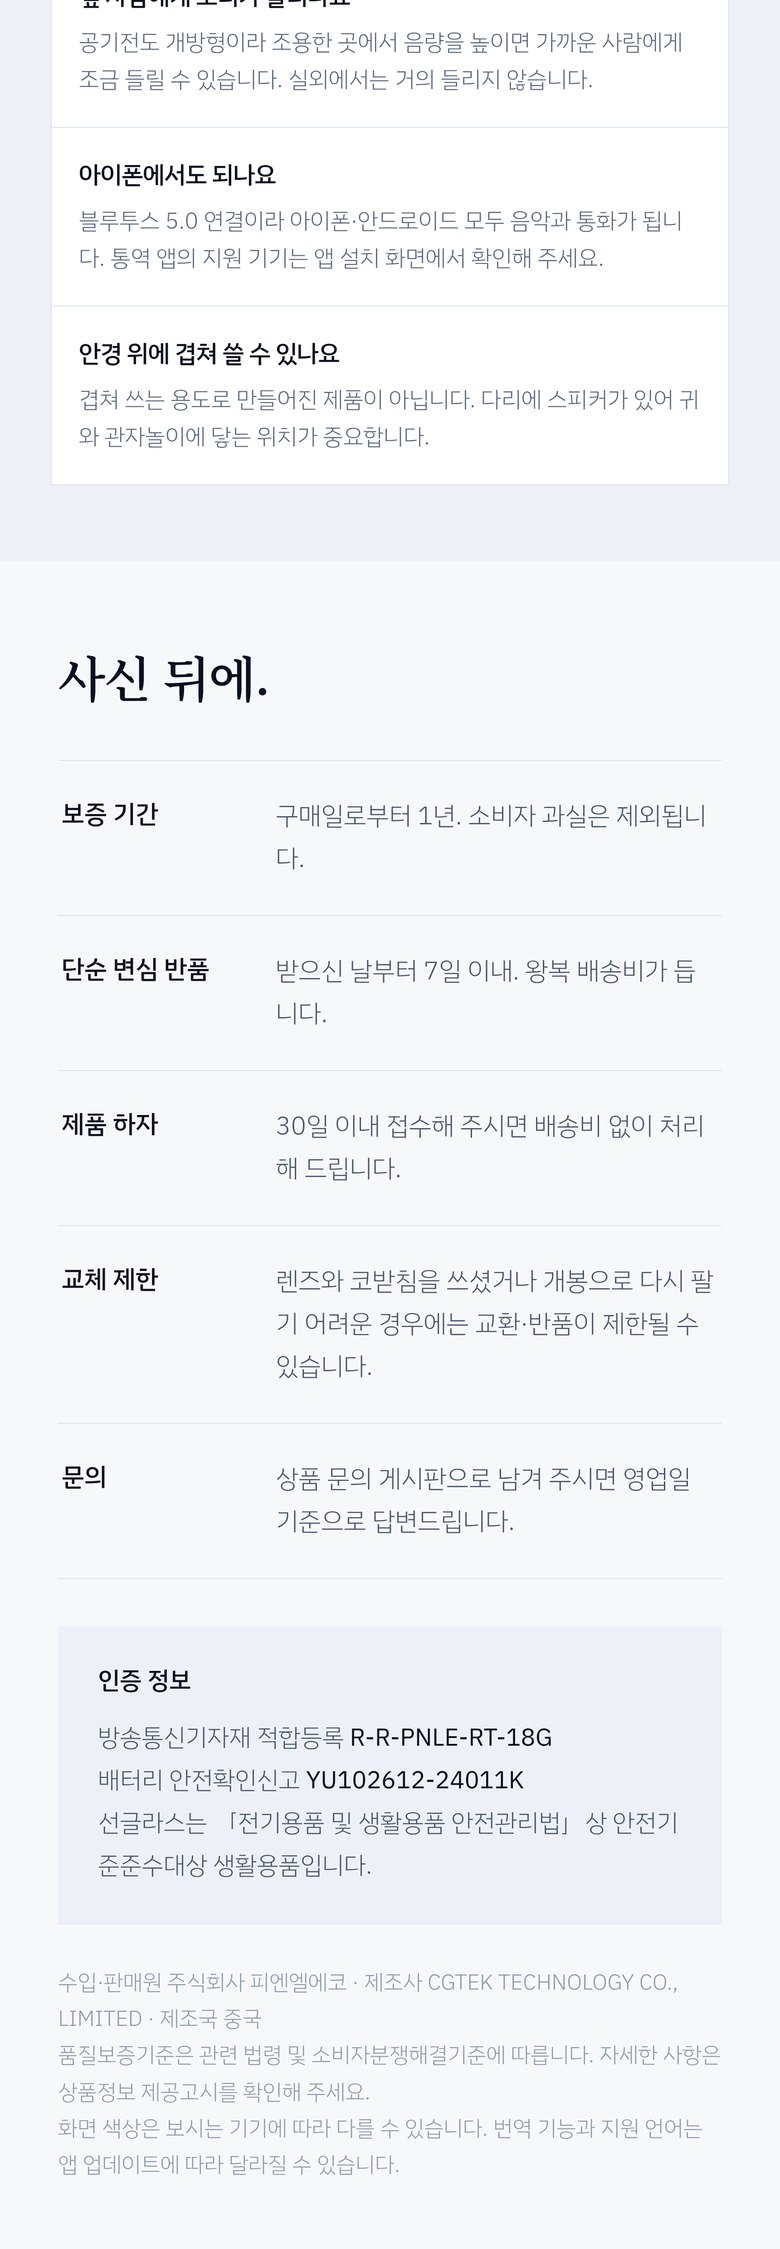
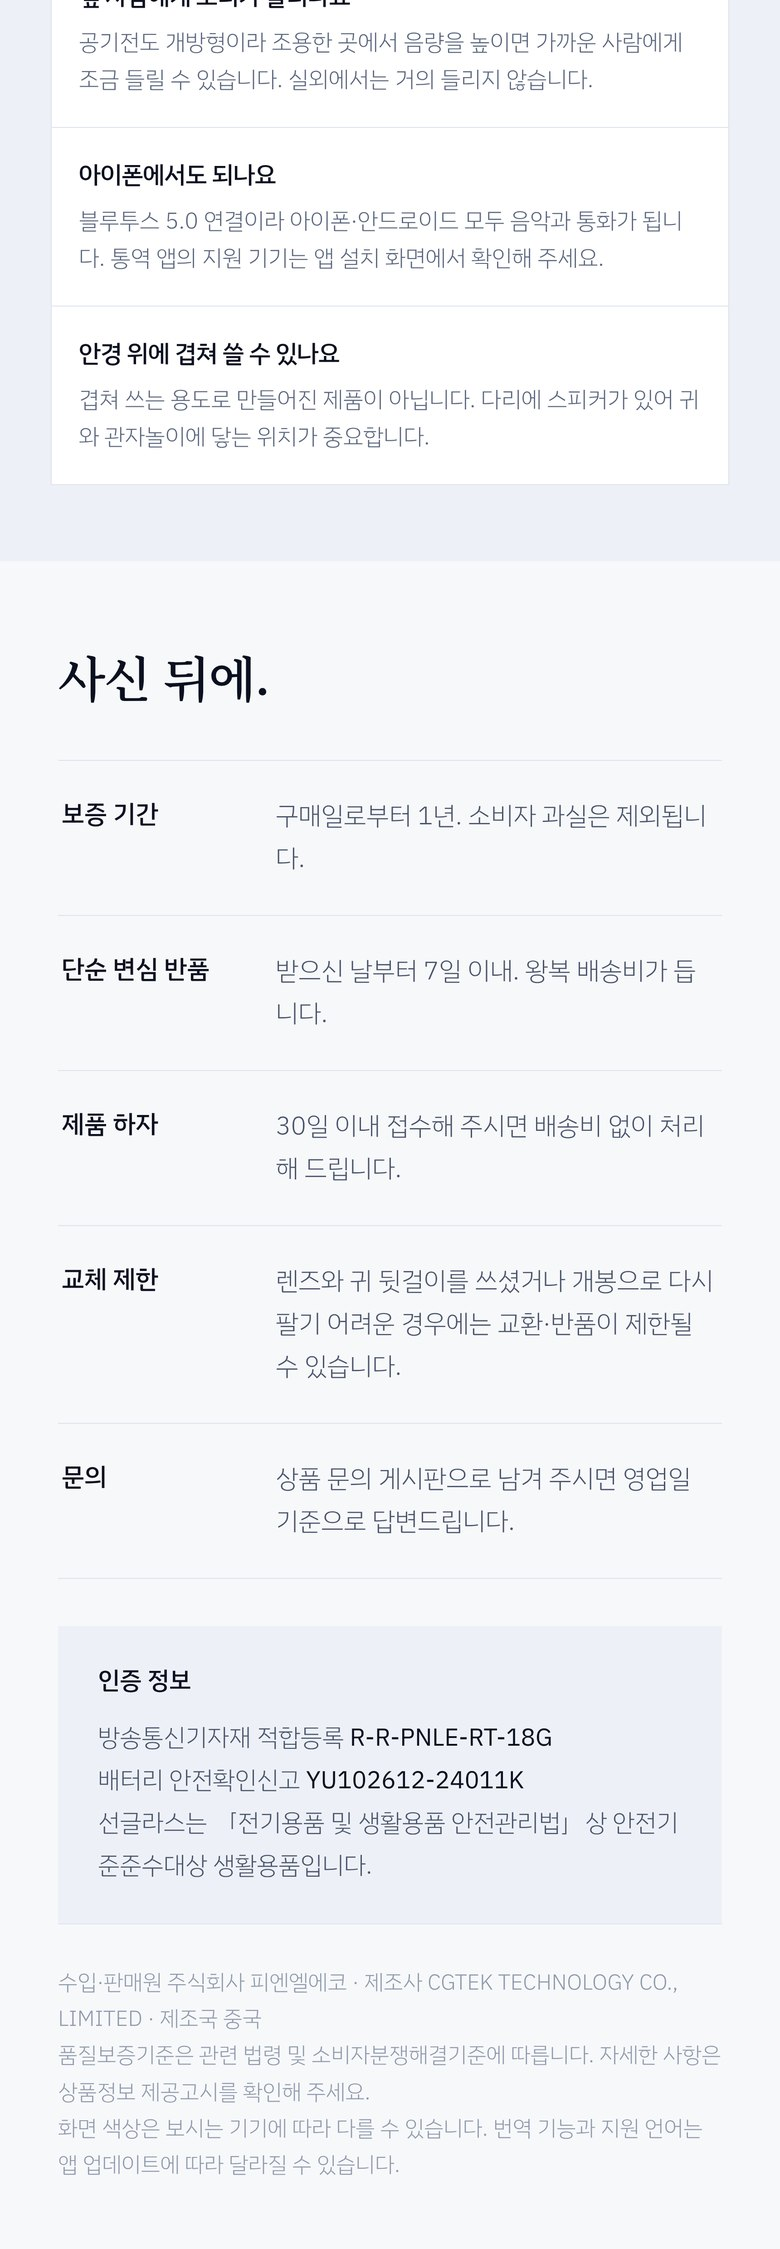
fix: 코받침 -> 귀 뒷걸이 정정 (구성품 표기)
실물은 다리 끝에 끼웠다 빼는 탈착식 귀 뒷걸이. 코받침이 아님.
상품정보 제공고시 항목이라 상세 4장·쿠팡 8조각·사이트 사양표 전부 재생성.

Claude-Session: https://claude.ai/code/session_017QiRpBpxMdUehAU87PBnEe

Changed region(s): [[0.3385, 0.5602, 0.9231, 0.6225]]

diff --git a/glass/index.html b/glass/index.html
@@ -48,13 +48,13 @@
 <tr><th>사용 시간</th><td>약 5시간</td></tr>
 <tr><th>충전</th><td>USB Type-C · DC 5V 1A · 약 1.5시간</td></tr>
 <tr><th>렌즈</th><td>PC 렌즈 · UV400 (자외선 99.9% 이상 차단)<br><b>3장 들어 있습니다 — 미러 · 스모크 · 편광</b></td></tr>
-<tr><th>프레임</th><td>프레임 PC · 템플 PC · 코받침과 다리 끝 미끄럼 방지</td></tr>
+<tr><th>프레임</th><td>프레임 PC · 템플 PC · 귀 뒷걸이와 다리 끝 미끄럼 방지</td></tr>
 <tr><th>크기</th><td>166 × 81 × 69mm</td></tr>
-<tr><th>구성품</th><td>본체 · <b>렌즈 3장(미러 · 스모크 · 편광)</b> · USB Type-C 케이블 · 교체용 코받침 2개 · 한글 설명서</td></tr>
+<tr><th>구성품</th><td>본체 · <b>렌즈 3장(미러 · 스모크 · 편광)</b> · USB Type-C 케이블 · 교체용 귀 뒷걸이 2개 · 한글 설명서</td></tr>
 <tr><th>가격</th><td>99,000원</td></tr>
 <tr><th>보증</th><td>구매일로부터 1년 (소비자 과실 제외)</td></tr>
 </table>
-<img loading="lazy" src="/img/rt18g-kit.webp" alt="RT-18G 구성품 — 본체, 박스, 여분 렌즈 2장, USB Type-C 케이블, 교체용 코받침, 한글 설명서" style="width:100%;height:auto;display:block;border-radius:14px;margin-top:26px">
+<img loading="lazy" src="/img/rt18g-kit.webp" alt="RT-18G 구성품 — 본체, 박스, 여분 렌즈 2장, USB Type-C 케이블, 교체용 귀 뒷걸이, 한글 설명서" style="width:100%;height:auto;display:block;border-radius:14px;margin-top:26px">
 <table style="margin-top:14px">
 <tr><th>적합성평가(전파)</th><td>R-R-PNLE-RT-18G</td></tr>
 <tr><th>안전확인신고(배터리)</th><td>YU102612-24011K</td></tr>
